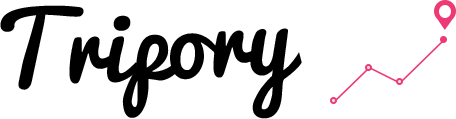
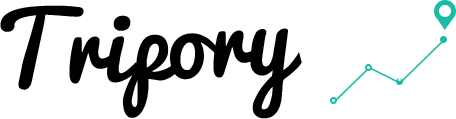
css 수정

diff --git a/src/main/webapp/assets/style.css b/src/main/webapp/assets/style.css
@@ -441,6 +441,7 @@ input:focus {
 	text-transform: uppercase;
 	font-size: 15px;
 	letter-spacing: 1px;
+	font-weight:600;
 }
 
 @media only screen and (min-width: 992px) and (max-width: 1199px) {
@@ -605,6 +606,10 @@ input:focus {
 	text-align: center;
 }
 
+.top-meta-data a:hover{
+	font-weight: 600;
+}
+
 @media only screen and (min-width: 992px) and (max-width: 1199px) {
 	.header-area .mag-main-menu .login-btn {
 		padding: 0 25px;
@@ -652,6 +657,7 @@ input:focus {
 	text-align: center;
 }
 
+
 @media only screen and (min-width: 992px) and (max-width: 1199px) {
 	.header-area .mag-main-menu .submit-video {
 		padding: 0 10px;
@@ -686,7 +692,7 @@ input:focus {
 
 .header-area .mag-main-menu .submit-video:hover, .header-area .mag-main-menu .submit-video:focus
 	{
-	background-color: #404040;
+	background-color: #0c8e7c;
 }
 
 .header-area .mag-main-menu .submit-video span {
@@ -702,6 +708,8 @@ input:focus {
 
 .header-area .mag-main-menu .submit-video .video-text {
 	display: block;
+	font-size:14px; 
+	font-weight:600;
 }
 
 @media only screen and (max-width: 767px) {
@@ -1475,6 +1483,13 @@ input:focus {
 	justify-content: space-between;
 	margin-bottom: 15px;
 	font-size: 16px;
+}
+
+
+.fa-search {
+	
+    font-weight: 600;
+    margin: 0 20px 0 5px
 }
 
 .catagory-widgets li a:hover, .catagory-widgets li a:focus {

diff --git a/src/main/webapp/assets/css/classy-nav.css b/src/main/webapp/assets/css/classy-nav.css
@@ -47,7 +47,7 @@ img {
     text-decoration: none;
     outline: none;
     font-size: 14px;
-    font-weight: 400;
+    font-weight: 600;
     color: #232323;
     display: inline-block; }
     .classy-nav-container a:hover, .classy-nav-container a:focus {
